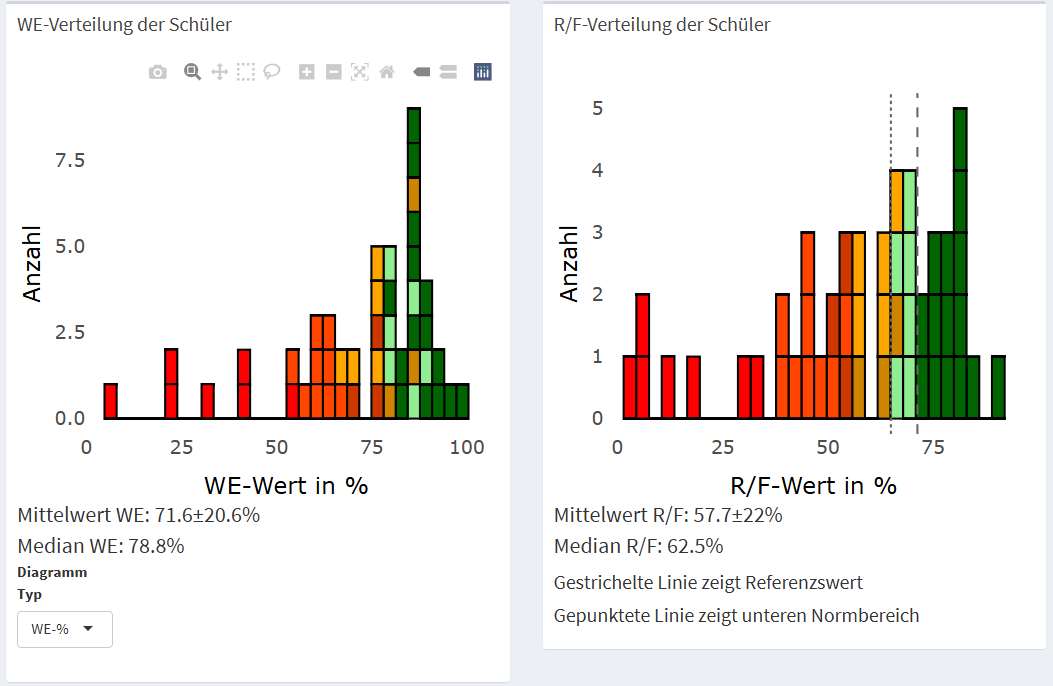
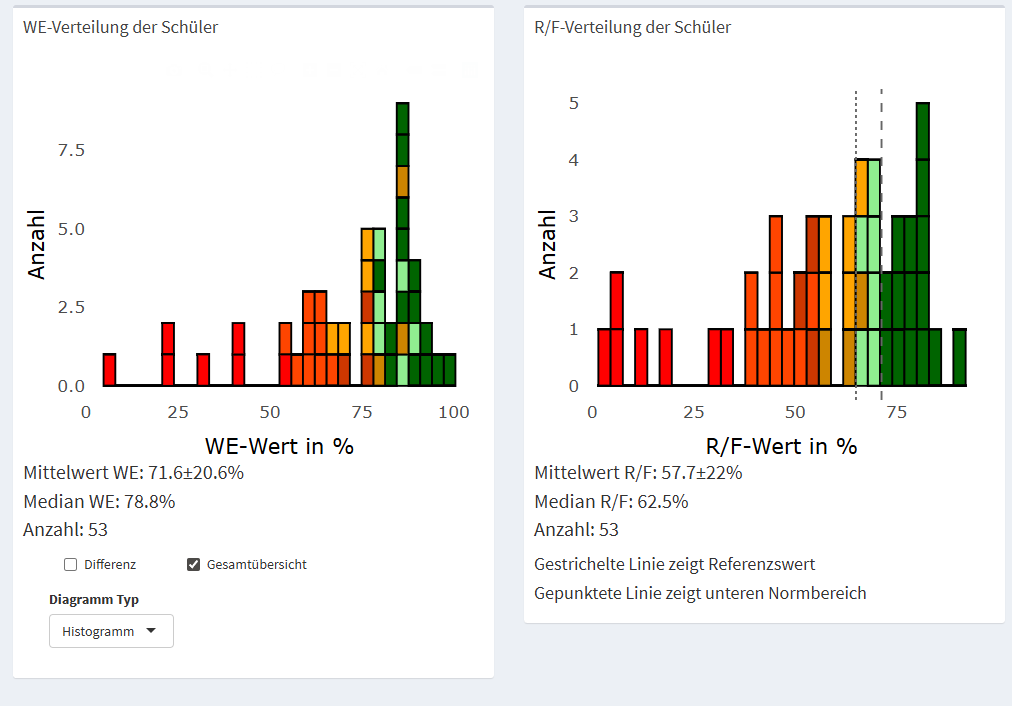
- add plots for multiple classes

diff --git a/helpfiles/anleitung.md b/helpfiles/anleitung.md
@@ -4,6 +4,7 @@ output:
     fig_caption: yes
 ---
 
+```{=html}
 <style type="text/css">
   blockquote {
     padding: 10px 20px;
@@ -12,6 +13,7 @@ output:
     border-left: 5px solid #eee;
 }
 </style>
+```
 
 ## C-Test-Auswertungstool
 
@@ -19,45 +21,38 @@ Diese Anwendung dient der Auswertung von C-Tests. Die Leistungen der Schüler we
 
 Diese Empfehlung sollte allerdings als erster Hinweis verstanden werden und im Bedarfsfall mit weiteren diagnostischen Werkzeugen verifiziert werden.
 
-## Schritt-für-Schritt
+#### Schritt-für-Schritt
 
 Dies ist eine **Schnell-Start Anleitung** mit den wichtigesten Schritten. Weitere Informationen sind in den folgenden Kapiteln zu finden.
 
-1. **Schüler hinzufügen**: Gehen Sie zum Menüpunkt "Auswertung". Hier können Sie den `Name` des Schülers sowie den entsprechenden `WE-Wert` und `R/F-Wert` je Schüler eingeben. Klicken Sie auf `Hinzufügen`, um die Daten zur `Übersichtstabelle` hinzuzufügen. Stellen Sie sicher, dass `Anzahl der Test-Items` auf die Anzahl der bearbeiteten Lücken eingestellt ist und das die `Klassenstufe` und `Klasse` richtig gewählt ist.
+1.  **Schüler hinzufügen**: Gehen Sie zum Menüpunkt "Auswertung". Hier können Sie den `Name` des Schülers sowie den entsprechenden `WE-Wert` und `R/F-Wert` je Schüler eingeben. Klicken Sie auf `Hinzufügen`, um die Daten zur `Übersichtstabelle` hinzuzufügen. Stellen Sie sicher, dass `Anzahl der Test-Items` auf die Anzahl der bearbeiteten Lücken eingestellt ist und das die `Klassenstufe` und `Klasse` richtig gewählt ist.
 
-2. **Übersichtstabelle**: Die `Übersichtstabelle` fasst alle Einträge zusammen und gibt Auskunft über die Handlungsempfehlungen je Schüler. Wenn ein oder mehrere Schüler falsch eingetragen wurden, können diese durch Anklicken markiert und mit dem `Entfernen`-Button gelöscht werden.
+2.  **Übersichtstabelle**: Die `Übersichtstabelle` fasst alle Einträge zusammen und gibt Auskunft über die Handlungsempfehlungen je Schüler. Wenn ein oder mehrere Schüler falsch eingetragen wurden, können diese durch Anklicken markiert und mit dem `Entfernen`-Button gelöscht werden.
 
-3. **Daten speichern**: Ist die Auswertung abgeschlossen, können Sie mit dem `Speichern`-Button die Daten als Word- und Excel-Dokument ablegen. Es wird auch eine \*.tsv Datei erstellt, die später wieder geladen werden kann.
+3.  **Daten speichern**: Ist die Auswertung abgeschlossen, können Sie mit dem `Speichern`-Button die Daten als Word- und Excel-Dokument ablegen. Es wird auch eine \*.tsv Datei erstellt, die später wieder geladen werden kann.
 
-4. **Suchfunktion**: Einzelne Schüler lassen sich durch Eintrag des Namens in das Feld `Suchen` finden.
+4.  **Suchfunktion**: Einzelne Schüler lassen sich durch Eintrag des Namens in das Feld `Suchen` finden.
 
-
-## Übersicht über die Funktionen
+#### Übersicht über die Funktionen
 
 ![Linkes Menüband](images/sidebar.png){style="float:left;margin-left:5px;margin-right:25px" width="150"}
 
 Auf der linken Seite befindet sich ein Menüband (siehe Abbildung).
 
-Die oberen beiden Buttons können genutzt werden um die aktuell geladenen/eingegebenen Daten zu speichern bzw bereits vorhandene Daten im \*.tsv-Format zu laden.
+Die oberen beiden Buttons können genutzt werden um die aktuell geladenen/eingegebenen Daten zu speichern bzw. bereits vorhandene Daten im \*.tsv-Format zu laden. Es können auch mehrere Datensätze nacheinander geladen werden um so erweiterte Analysen durchzuführen.
 
 1.  **Auswertung**: Hier können die **Schülerdaten eingegeben**, die Ergebnisse als **Tabelle betrachtet** und **gespeichert** werden.
 2.  **Statistik**: Hier können **Mittelwert und Median** für `R/F-Wert` und `WE-Wert` eingesehen werden. Weiterhin können die Daten hier als Histogramm **graphisch dargestellt** werden.
 3.  **Elternbrief**: Hier können automatisiert Elternbriefe erstellt werden.
 4.  **Anleitung**: Diese Anleitung.
 
-&nbsp;
-&nbsp;
-&nbsp;
-&nbsp;
-&nbsp;
-&nbsp;
-  
+           
+
 ### Auswertung
 
 #### Schüler hinzufügen
 
-Dieser Unterpunkt dient vor allem dem Einpflegen der Schülerdaten. Hier können der `Name` des Schülers sowie der entsprechende `WE-Wert` und `R/F-Wert` je Schüler eingegeben werden und mit `Hinzufügen` zur `Übersichtstabelle` hinzugefügt werden. Vor der Eingabe des ersten Schülers sollte `Anzahl der Test-Items` auf die Anzahl der bearbeiteten Lücken (typischerweise 20 pro Text) eingestellt werden. Dieser Wert sollte eigentlich für alle Schüler gleich sein. Falls ein Schüler nur einen Teil der Texte bearbeitet hat, kann der Wert aber auch für jeden Schüler verändert werden.
-Weiterhin muss die `Klassenstufe` und `Klasse` eingestellt werden. Normalerweise sollte auch dies für alle Schüler gleich sein, kann aber wie die `Anzahl der Test-Items` für jeden Schüler individuell gesetzt werden sodass auch mehrere Klassen aufeinmal eingetragen werden können.
+Dieser Unterpunkt dient vor allem dem Einpflegen der Schülerdaten. Hier können der `Name` des Schülers sowie der entsprechende `WE-Wert` und `R/F-Wert` je Schüler eingegeben werden und mit `Hinzufügen` zur `Übersichtstabelle` hinzugefügt werden. Vor der Eingabe des ersten Schülers sollte `Anzahl der Test-Items` auf die Anzahl der bearbeiteten Lücken (typischerweise 20 pro Text) eingestellt werden. Dieser Wert sollte eigentlich für alle Schüler gleich sein. Falls ein Schüler nur einen Teil der Texte bearbeitet hat, kann der Wert aber auch für jeden Schüler verändert werden. Weiterhin muss die `Klassenstufe` und `Klasse` eingestellt werden. Normalerweise sollte auch dies für alle Schüler gleich sein, kann aber wie die `Anzahl der Test-Items` für jeden Schüler individuell gesetzt werden sodass auch mehrere Klassen aufeinmal eingetragen werden können.
 
 Wurde ein oder mehrere Schüler falsch eingetragen, können diese durch Anklicken markiert und mit dem `löschen`-Button gelöscht werden.
 
@@ -85,6 +80,9 @@ Hier können die eingegebenen Daten als Histogramme visualisiert werden.
 
 > **Tipp**: Die Diagramme können interaktiv gezoomt werden und wenn man die Maus über ein Kästchen bewegt, werden die einzelnen Schüler angezeigt.
 
-Das linke Diagramm zeigt den `WE-Wert` in Prozent. Mit `Diagramm Typ` kann entweder die Verteilung der `WE-Werte` oder die Differenz zwischen `R/F-Wert` und `WE-Wert` dargestellt werden.
+Das linke Diagramm zeigt den `WE-Wert` in Prozent. \
+Mit der Checkbox `Differenz` kann entweder die Verteilung der `WE-Werte` oder die Differenz zwischen `R/F-Wert` und `WE-Wert` dargestellt werden.\
+Mit der Checkbox `Gesamtübersicher` können (falls mehrere Klassen vorhanden sind) alle Daten zusammen oder nach Klasse ausgewertet werden.
+Mit `Diagramm Typ` kann zwischen einem Histogramm und einem Dichte Diagramm (praktisch um mehrere Klassen zu vergleichen) gewechselt werden.
 
 Das rechte Diagramm zeigt die `R/F-Werte` in Prozent; die gestrichelte Linie markiert den Referenzwert für Gesamtschulen und die gepunktete Linie den unteren Grenzwert des Normalbereichs (alle Schüler, die unterhalb dieser Grenze liegen, brauchen u.U. Unterstützung oder sollten zumindest näher betrachtet werden). Unter dem Diagramm wird außerdem der Mittelwert des `R/F-Werts` in Prozent (± Standardabweichung) sowie der Median angezeigt.
